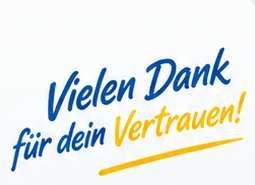
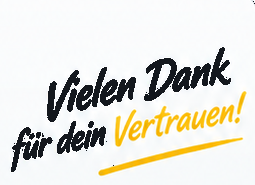
Add files via upload

diff --git a/danke.html b/danke.html
@@ -64,10 +64,10 @@ html,body{margin:0;background:linear-gradient(180deg,#f6f8fa 0%,#eef2f5 100%);co
 .actions{display:grid;grid-template-columns:1fr 1fr;gap:10px;margin-top:16px}
 .btn{min-height:48px;border-radius:14px;border:1px solid #d5dde3;background:#fff;color:var(--ink);font:inherit;font-size:12.5px;font-weight:800;display:flex;align-items:center;justify-content:center;gap:8px;text-decoration:none;cursor:pointer;transition:.18s ease;box-shadow:0 8px 18px rgba(23,37,49,.04)}
 .btn.primary{background:linear-gradient(180deg,#edf9f6,#d8efe9);border-color:#abd4cc;color:#18483f;box-shadow:0 8px 18px rgba(48,143,127,.12)}
-.footer{display:grid;grid-template-columns:1fr auto;gap:24px;align-items:end;border-top:1px solid #e4e9ed;margin-top:26px;padding-top:20px}
+.footer{display:grid;grid-template-columns:1fr;gap:24px;align-items:end;border-top:1px solid #e4e9ed;margin-top:26px;padding-top:20px}
 .trust{display:flex;align-items:flex-start;gap:8px;color:#52606c;font-size:10px;line-height:1.25}
 .trust i{font-style:normal;font-size:20px}.trust b{display:block;color:var(--ink);font-size:10px}
- .footer-brand{text-align:right;font-weight:950;letter-spacing:.13em;color:#111821;text-transform:uppercase;display:flex;flex-direction:column;align-items:flex-end;line-height:1;font-style:italic;transform:skewX(-10deg)}.footer-brand span{display:block;font-size:8.4px;color:#8f7740;font-weight:850;letter-spacing:.21em;margin-top:6px;transform:skewX(10deg)}.footer-signature{display:flex;flex-direction:column;align-items:flex-start}.footer-line{width:44px;height:2px;background:#9ccfc6;border-radius:999px;margin-bottom:9px}.footer-signature strong{font-family:-apple-system,BlinkMacSystemFont,"Segoe UI",Roboto,Arial,sans-serif;font-size:15px;line-height:1.25;font-weight:600;letter-spacing:0;color:#22313d;transform:none}
+ .footer-brand{text-align:right;font-weight:950;letter-spacing:.13em;color:#111821;text-transform:uppercase;display:flex;flex-direction:column;align-items:flex-end;line-height:1;font-style:italic;transform:skewX(-10deg)}.footer-brand span{display:block;font-size:8.4px;color:#8f7740;font-weight:850;letter-spacing:.21em;margin-top:6px;transform:skewX(10deg)}.footer-signature{display:flex;flex-direction:column;align-items:flex-start}.footer-line{width:52px;height:3px;background:#9ccfc6;border-radius:999px;margin-bottom:10px}.footer-signature strong{font-family:-apple-system,BlinkMacSystemFont,"Segoe UI",Roboto,Arial,sans-serif;font-size:16px;line-height:1.1;font-weight:900;letter-spacing:.03em;color:#1b2530;font-style:italic;transform:skewX(-8deg)}
 .compact-card .rows{padding-bottom:8px}.compact-card .row{padding:8px 0}
 @media(max-width:760px){
  .page{width:100%;margin:0}.sheet{border-radius:0;padding:18px 14px}
@@ -80,7 +80,7 @@ html,body{margin:0;background:linear-gradient(180deg,#f6f8fa 0%,#eef2f5 100%);co
  .hero{grid-template-columns:54px 1fr;gap:12px}.check{width:52px;height:52px;font-size:30px}.hero h1{font-size:24px}.order-details{grid-template-columns:1fr 1fr}.order-detail{padding:8px 10px}.order-detail strong{font-size:11.5px}
  .info,.bottom{grid-template-columns:1fr}.customer-grid{grid-template-columns:1fr 1fr}.customer-grid .row{padding:7px 8px}.customer-grid .row.address-row{grid-column:1/-1}.contact{grid-template-columns:minmax(0,1fr) 96px;gap:10px;padding:16px 14px;align-items:center}.contact h3{font-size:15px}.contact p{font-size:11.5px;margin-bottom:8px}.contact-lines{gap:8px}.contact-line{font-size:11.5px}.thanks-note{display:flex;justify-content:flex-end;align-items:center;margin:0;min-width:0;transform:none;align-self:center}.thanks-note img{width:92px;max-width:100%;height:auto}
  .table-head{display:none}.item-row{grid-template-columns:1fr 1fr;gap:8px;padding:10px}
- .product-cell{grid-column:1/-1}.footer{grid-template-columns:1fr}.footer-brand{text-align:left;align-items:flex-start}
+ .product-cell{grid-column:1/-1}.footer{grid-template-columns:1fr}
  .actions{grid-template-columns:1fr}
 }
 @media print{
@@ -102,7 +102,7 @@ html,body{margin:0;background:linear-gradient(180deg,#f6f8fa 0%,#eef2f5 100%);co
  .product-cell{grid-template-columns:44px 1fr!important;gap:7px!important}.product-cell img{width:40px!important;height:40px!important;border-radius:8px!important;padding:3px!important}.product-cell strong{font-size:10.5px!important}.cell,.money{font-size:9.8px!important}.positions div+div{margin-top:2px!important}
  .bottom{gap:10px!important;margin-bottom:8px!important}.contact{padding:10px 12px!important;border-radius:10px!important;box-shadow:none!important;grid-template-columns:minmax(0,1fr) 95px!important;gap:8px!important}.contact h3{font-size:12px!important;margin-bottom:3px!important}.contact p{font-size:9px!important;margin-bottom:5px!important}.contact-lines{gap:5px!important}.contact-line{font-size:9.2px!important}.contact-ico{width:18px!important;height:18px!important;flex-basis:18px!important}.contact-ico svg{width:10px!important;height:10px!important}.thanks-note img{width:86px!important}
  .totalbox{padding:10px 12px!important;border-radius:10px!important;box-shadow:none!important}.totalbox h3{font-size:12px!important;margin-bottom:5px!important}.total-line{padding:5px 0!important;font-size:10px!important}.grand strong{font-size:21px!important}.totalbox small{font-size:8px!important}
- .actions{display:none!important}.footer{margin-top:8px!important;padding-top:7px!important;gap:12px!important}.footer-line{margin-bottom:5px!important}.footer-signature strong{font-size:11px!important}.footer-brand{font-size:10px!important}.footer-brand span{font-size:6.8px!important;margin-top:3px!important}
+ .actions{display:none!important}.footer{margin-top:8px!important;padding-top:7px!important;gap:12px!important}.footer-line{margin-bottom:5px!important}.footer-signature strong{font-size:11px!important}
  .card,.table-wrap,.contact,.totalbox,.footer{break-inside:avoid;page-break-inside:avoid}
 }
 
@@ -115,10 +115,10 @@ html,body{margin:0;background:linear-gradient(180deg,#f6f8fa 0%,#eef2f5 100%);co
 <header class="top">
   <div class="brand">
     <div class="brand-logo brand-logo-image">
-      <img id="thanksLogo" class="brand-mark" src="/nexaro-logo-compact-v2.jpg?v=30.1.57" alt="NEXARO SPORTS">
+      <img id="thanksLogo" class="brand-mark" src="/nexaro-logo-compact-v2.jpg?v=30.1.58" alt="NEXARO SPORTS">
     </div>
   </div>
-  <div class="slogan"><img src="/slogan-black-gold-v3.png?v=30.1.57" alt="Ein Team. Ein Style."></div>
+  <div class="slogan"><img src="/slogan-black-gold-v3.png?v=30.1.58" alt="Ein Team. Ein Style."></div>
 </header>
 
 <section class="hero">
@@ -170,7 +170,7 @@ html,body{margin:0;background:linear-gradient(180deg,#f6f8fa 0%,#eef2f5 100%);co
               <div class="contact-line"><span class="contact-ico mail-ico">✉</span><strong id="thanksEmail">shirtzentrale@gmail.com</strong></div>
       </div>
     </div>
-    <div class="thanks-note"><img src="/danke-team-style.png?v=30.1.36" alt="Vielen Dank für dein Vertrauen!"></div>
+    <div class="thanks-note"><img src="/danke-team-style.png?v=30.1.58" alt="Vielen Dank für dein Vertrauen!"></div>
   </div>
 
   <div class="totalbox">
@@ -192,14 +192,14 @@ html,body{margin:0;background:linear-gradient(180deg,#f6f8fa 0%,#eef2f5 100%);co
     <strong>Next Level Sportswear</strong>
     
   </div>
-  <div class="footer-brand">NEXARO SPORTS<span>SPORTSWEAR & TEAMWEAR</span></div>
+  
 </footer>
 
 </section>
 </main>
 
-<script src="/central-config.js?v=30.1.57"></script>
-<script src="/shop-loader.js?v=30.1.57"></script>
+<script src="/central-config.js?v=30.1.58"></script>
+<script src="/shop-loader.js?v=30.1.58"></script>
 <script>
 loadShopConfig(function(cfg){
   const euro=v=>new Intl.NumberFormat('de-DE',{style:'currency',currency:(cfg.currency||'EUR')}).format(Number(v)||0);
@@ -211,7 +211,7 @@ loadShopConfig(function(cfg){
   // Logo oben links entfernt
   const logo=document.getElementById("thanksLogo");
   if(logo){
-    logo.src="/nexaro-logo-compact-v2.jpg?v=30.1.57";
+    logo.src="/nexaro-logo-compact-v2.jpg?v=30.1.58";
   }
   if(cfg.orderEmail){
     document.getElementById("thanksEmail").textContent=cfg.orderEmail;

diff --git a/admin.html b/admin.html
@@ -5,7 +5,7 @@
   <meta name="viewport" content="width=device-width, initial-scale=1, viewport-fit=cover">
   <meta name="theme-color" content="#ffffff">
   <title>Shirtprojekt – Zentrale</title>
-  <link rel="stylesheet" href="admin.css?v=30.1.57">
+  <link rel="stylesheet" href="admin.css?v=30.1.58">
 
 <style id="v2849-critical">
 /* v29.1.4 clean fallback: Grunddaten garantiert zusammengefasst */
@@ -1082,14 +1082,14 @@
     </section>
   </main>
 
-  <script src="/central-config.js?v=30.1.57"></script>
+  <script src="/central-config.js?v=30.1.58"></script>
   <script src="/__/firebase/8.10.1/firebase-app.js"></script>
   <script src="/__/firebase/8.10.1/firebase-auth.js"></script>
   <script src="/__/firebase/8.10.1/firebase-firestore.js"></script>
   <script src="/__/firebase/init.js"></script>
   
 
-  <script src="/admin.js?v=30.1.57"></script>
+  <script src="/admin.js?v=30.1.58"></script>
 
 <script id="v2849-fallback">
 (function(){
@@ -1116,7 +1116,7 @@
     var basic=document.querySelector('.v284-card[data-card="basic"] .v284-card-body');
     if(basic && !basic.contains(grund)) basic.appendChild(grund);
   }
-  function badge(){ if(document.querySelector('.v2849-version'))return; var b=document.createElement('div');b.className='v2849-version';b.textContent='v30.1.57';document.body.appendChild(b);}
+  function badge(){ if(document.querySelector('.v2849-version'))return; var b=document.createElement('div');b.className='v2849-version';b.textContent='v30.1.58';document.body.appendChild(b);}
   document.addEventListener('DOMContentLoaded',function(){setTimeout(combine,50);setTimeout(combine,400);setTimeout(combine,1200);badge();});
   new MutationObserver(function(){combine();}).observe(document.documentElement,{childList:true,subtree:true});
 })();
